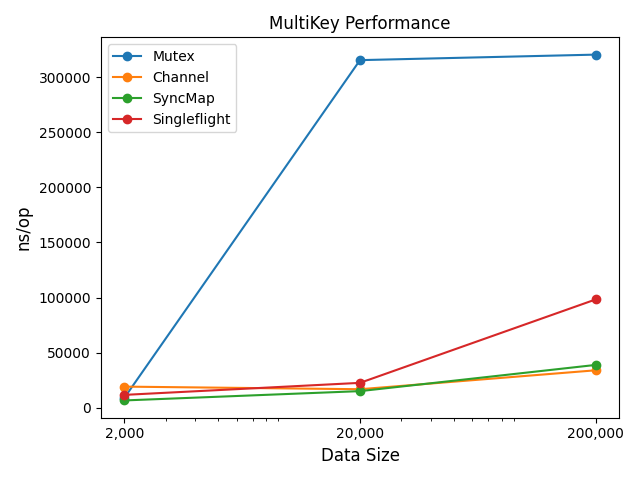
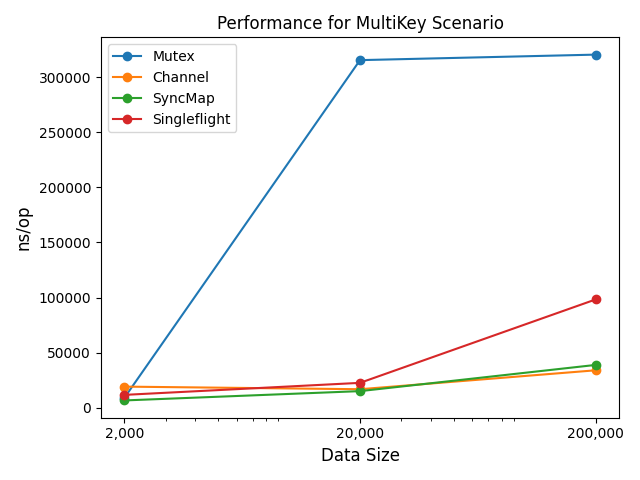
refactor: rename OneKey to SingleKey

Changed region(s): [[0.3438, 0.0312, 0.7812, 0.0625]]

diff --git a/benchmark_diagram.py b/benchmark_diagram.py
@@ -1,53 +1,53 @@
 import matplotlib.pyplot as plt
 
-# OneKey
-onekey_data_size = [2e3, 2e4, 2e5]
-onekey_mutex = [12625, 207748, 205604]
-onekey_channel = [41798, 251148, 251540]
-onekey_syncmap = [15768, 66449, 68377]
-onekey_singleflight = [17039, 242412, 254424]
+# SingleKey
+singleKey_data_size = [2e3, 2e4, 2e5]
+singleKey_mutex = [12625, 207748, 205604]
+singleKey_channel = [41798, 251148, 251540]
+singleKey_syncMap = [15768, 66449, 68377]
+singleKey_singleflight = [17039, 242412, 254424]
 
-# MultiKey
-multikey_data_size = [2e3, 2e4, 2e5]
-multikey_mutex = [9026, 315541, 320547]
-multikey_channel = [19094, 16734, 33913]
-multikey_syncmap = [6556, 15004, 38783]
-multikey_singleflight = [11600, 22518, 98216]
-
-# 繪製 OneKey 圖表
-plt.plot(onekey_data_size, onekey_mutex, 'o-', label='Mutex')
-plt.plot(onekey_data_size, onekey_channel, 'o-', label='Channel')
-plt.plot(onekey_data_size, onekey_syncmap, 'o-', label='SyncMap')
-plt.plot(onekey_data_size, onekey_singleflight, 'o-', label='Singleflight')
+# 繪製 SingleKey 圖表
+plt.plot(singleKey_data_size, singleKey_mutex, 'o-', label='Mutex')
+plt.plot(singleKey_data_size, singleKey_channel, 'o-', label='Channel')
+plt.plot(singleKey_data_size, singleKey_syncMap, 'o-', label='SyncMap')
+plt.plot(singleKey_data_size, singleKey_singleflight, 'o-', label='Singleflight')
 plt.xscale('log')
-plt.title('OneKey Performance')
+plt.title('Performance for SingleKey Scenario')
 plt.xlabel('Data Size', fontsize=12)
 plt.ylabel('ns/op', fontsize=12)
 plt.legend()
 
 # 設定 x 軸刻度
-plt.xticks(onekey_data_size, onekey_data_size)
+plt.xticks(singleKey_data_size, singleKey_data_size)
 # 設定 x 軸刻度文字
-plt.gca().set_xticklabels([f'{int(x):,}' for x in onekey_data_size])
+plt.gca().set_xticklabels([f'{int(x):,}' for x in singleKey_data_size])
 
 plt.tight_layout()
 plt.show()
 
+# MultiKey
+multiKey_data_size = [2e3, 2e4, 2e5]
+multiKey_mutex = [9026, 315541, 320547]
+multiKey_channel = [19094, 16734, 33913]
+multiKey_syncMap = [6556, 15004, 38783]
+multiKey_singleflight = [11600, 22518, 98216]
+
 # 繪製 MultiKey 圖表
-plt.plot(multikey_data_size, multikey_mutex, 'o-', label='Mutex')
-plt.plot(multikey_data_size, multikey_channel, 'o-', label='Channel')
-plt.plot(multikey_data_size, multikey_syncmap, 'o-', label='SyncMap')
-plt.plot(multikey_data_size, multikey_singleflight, 'o-', label='Singleflight')
+plt.plot(multiKey_data_size, multiKey_mutex, 'o-', label='Mutex')
+plt.plot(multiKey_data_size, multiKey_channel, 'o-', label='Channel')
+plt.plot(multiKey_data_size, multiKey_syncMap, 'o-', label='SyncMap')
+plt.plot(multiKey_data_size, multiKey_singleflight, 'o-', label='Singleflight')
 plt.xscale('log')
-plt.title('MultiKey Performance')
+plt.title('Performance for MultiKey Scenario')
 plt.xlabel('Data Size', fontsize=12)
 plt.ylabel('ns/op', fontsize=12)
 plt.legend()
 
 # 設定 x 軸刻度
-plt.xticks(multikey_data_size, multikey_data_size)
+plt.xticks(multiKey_data_size, multiKey_data_size)
 # 設定 x 軸刻度文字
-plt.gca().set_xticklabels([f'{int(x):,}' for x in multikey_data_size])
+plt.gca().set_xticklabels([f'{int(x):,}' for x in multiKey_data_size])
 
 plt.tight_layout()
 plt.show()

diff --git a/cache_proxy_test.go b/cache_proxy_test.go
@@ -38,7 +38,7 @@ func ConcurrentTester(goroutinePower uint8, fn func()) (start func(), wait func(
 	return start, wait
 }
 
-func CacheProxyBenchmarkConcurrentOneKey(b *testing.B, proxy CacheProxy, db *UserDatabase) {
+func CacheProxyBenchmarkConcurrentSingleKey(b *testing.B, proxy CacheProxy, db *UserDatabase) {
 	ids := db.GetUserIds()
 	b.ResetTimer()
 
@@ -51,7 +51,7 @@ func CacheProxyBenchmarkConcurrentOneKey(b *testing.B, proxy CacheProxy, db *Use
 		wait()
 	}
 
-	// b.Logf("one key: db qry count = %v, b.N=%v", db.qryCount, b.N)
+	// b.Logf("single key: db qry count = %v, b.N=%v", db.qryCount, b.N)
 }
 
 func CacheProxyBenchmarkConcurrentMultiKey(b *testing.B, proxy CacheProxy, db *UserDatabase) {
@@ -77,9 +77,9 @@ func CacheProxyBenchmarkConcurrentMultiKey(b *testing.B, proxy CacheProxy, db *U
 }
 
 func dependency() (string, *BaseCacheProxy, *UserDatabase) {
-	// concurrentKeys := "one"
-	concurrentKeys := "multi"
-	dataSize := 2e5
+	concurrentKeys := "single"
+	// concurrentKeys := "multi"
+	dataSize := 2e3
 
 	db := NewUserDatabase(int(dataSize))
 	baseProxy := &BaseCacheProxy{
@@ -101,8 +101,8 @@ func dependency() (string, *BaseCacheProxy, *UserDatabase) {
 func BenchmarkMutexProxy(b *testing.B) {
 	concurrentKeys, baseProxy, db := dependency()
 	switch concurrentKeys {
-	case "one":
-		CacheProxyBenchmarkConcurrentOneKey(b, UseMutex(baseProxy), db)
+	case "single":
+		CacheProxyBenchmarkConcurrentSingleKey(b, UseMutex(baseProxy), db)
 	case "multi":
 		CacheProxyBenchmarkConcurrentMultiKey(b, UseMutex(baseProxy), db)
 	}
@@ -111,8 +111,8 @@ func BenchmarkMutexProxy(b *testing.B) {
 func BenchmarkChannelProxy(b *testing.B) {
 	concurrentKeys, baseProxy, db := dependency()
 	switch concurrentKeys {
-	case "one":
-		CacheProxyBenchmarkConcurrentOneKey(b, UseChannel(baseProxy), db)
+	case "single":
+		CacheProxyBenchmarkConcurrentSingleKey(b, UseChannel(baseProxy), db)
 	case "multi":
 		CacheProxyBenchmarkConcurrentMultiKey(b, UseChannel(baseProxy), db)
 	}
@@ -121,8 +121,8 @@ func BenchmarkChannelProxy(b *testing.B) {
 func BenchmarkSyncMapProxy(b *testing.B) {
 	concurrentKeys, baseProxy, db := dependency()
 	switch concurrentKeys {
-	case "one":
-		CacheProxyBenchmarkConcurrentOneKey(b, UseSyncMap(baseProxy), db)
+	case "single":
+		CacheProxyBenchmarkConcurrentSingleKey(b, UseSyncMap(baseProxy), db)
 	case "multi":
 		CacheProxyBenchmarkConcurrentMultiKey(b, UseSyncMap(baseProxy), db)
 	}
@@ -131,8 +131,8 @@ func BenchmarkSyncMapProxy(b *testing.B) {
 func BenchmarkSingleflightProxy(b *testing.B) {
 	concurrentKeys, baseProxy, db := dependency()
 	switch concurrentKeys {
-	case "one":
-		CacheProxyBenchmarkConcurrentOneKey(b, UseSingleflight(baseProxy), db)
+	case "single":
+		CacheProxyBenchmarkConcurrentSingleKey(b, UseSingleflight(baseProxy), db)
 	case "multi":
 		CacheProxyBenchmarkConcurrentMultiKey(b, UseSingleflight(baseProxy), db)
 	}

diff --git a/channel_proxy.go b/channel_proxy.go
@@ -80,6 +80,8 @@ func (proxy *ChannelProxy) manager() {
 
 		case <-proxy.closeManager:
 			return
+
+		// default: // 高併發密集請求時, default 移除註解, 可以讓效能更好
 		}
 	}
 }

diff --git a/readme.md b/readme.md
@@ -1,7 +1,7 @@
 # 傳遞 message 來撰寫程式, 在 golang 應該如何思考
 
 實現一個 簡易的 cache proxy  
-藉由  concurrency 的情景, 提供數種程式的撰寫方式  
+藉由 concurrency 的情景, 提供數種程式的撰寫方式
 
 ![go meetup profile](./asset/go%20meetup%20profile.jpg)
 
@@ -13,7 +13,7 @@ v2:
 
 v0:  
 內容分散, 關注太多細節, 程式碼凌亂  
-~~<https://docs.google.com/presentation/d/1yctNKOoct49OEj7jZtKfVjrnZifABWbWxfpJ3MM2D9w>~~  
+~~<https://docs.google.com/presentation/d/1yctNKOoct49OEj7jZtKfVjrnZifABWbWxfpJ3MM2D9w>~~
 
 v0 相關程式  
 <https://github.com/KScaesar/cache-proxy-demo/tree/v0.1.0>
@@ -33,48 +33,48 @@ v0 相關程式
 
 goos: linux  
 goarch: amd64  
-cpu: Intel(R) Core(TM) i7-6700HQ CPU @ 2.60GHz  
+cpu: Intel(R) Core(TM) i7-6700HQ CPU @ 2.60GHz
 
 ---
 
-OneKey:  
+SingleKey:  
 data size = X, 共有 X 個 key  
 循序查詢不同 key  
-同一個 key, 同時有 N 個請求  
+同一個 key, 同時有 N 個請求
 
 MultiKey:  
 data size = X, 共有 X 個 key  
 併發 b.N 個請求, 查詢不同 key  
 同一個 key, 同時有 N 個請求
 
-| OneKey Performance                                  | MultiKey Performance                                   |
-|-----------------------------------------------------|--------------------------------------------------------|
-| ![ one key diagram](./asset/OneKey_Performance.png) | ![multi key diagram](./asset/MultiKey_Performance.png) |
+| Performance for SingleKey Scenario                        | Performance for MultiKey Scenario                      |
+|-----------------------------------------------------------|--------------------------------------------------------|
+| ![ single key diagram](./asset/SingleKey_Performance.png) | ![multi key diagram](./asset/MultiKey_Performance.png) |
 
 - 隨著數據量的增加，性能都會變得更差，但 Mutex 的性能下降比較明顯
-- 不管是在 OneKey 還是 MultiKey 的情況下，使用 SyncMap 的效率都有不錯的表現
-- Channel 在 OneKey 的情況下性能較差，但在 MultiKey 的情況下性能有顯著提升
+- 不管是在 SingleKey 還是 MultiKey 的情況下，使用 SyncMap 的效率都有不錯的表現
+- Channel 在 SingleKey 的情況下性能較差，但在 MultiKey 的情況下性能有顯著提升
 - 在 MultiKey 隨著資料量增加，Channel 的效能優勢逐漸明顯，在大量資料使用 Channel 進行併發處理，可能是一個較好的選擇
-
 
 ---
 
 
-OneKey
+SingleKey
+
 ```
-# one key: data size: 2e3
+# single key: data size: 2e3
 BenchmarkMutexProxy-8         96925       12625 ns/op
 BenchmarkChannelProxy-8       27174       41798 ns/op
 BenchmarkSyncMapProxy-8       73860       15768 ns/op
 BenchmarkSingleflightProxy-8  63872       17039 ns/op
 
-# one key: data size: 2e4
+# single key: data size: 2e4
 BenchmarkMutexProxy-8         5845      207748 ns/op
 BenchmarkChannelProxy-8       4678      251148 ns/op
 BenchmarkSyncMapProxy-8      17397       66449 ns/op
 BenchmarkSingleflightProxy-8  4838      242412 ns/op
 
-# one key: data size: 2e5
+# single key: data size: 2e5
 BenchmarkMutexProxy-8         5563      205604 ns/op
 BenchmarkChannelProxy-8       4706      251540 ns/op
 BenchmarkSyncMapProxy-8      16418       68377 ns/op
@@ -84,6 +84,7 @@ BenchmarkSingleflightProxy-8  4524      254424 ns/op
 ---
 
 MultiKey
+
 ```
 # multi key: data size: 2e2
 BenchmarkMutexProxy-8         122713        9026 ns/op
